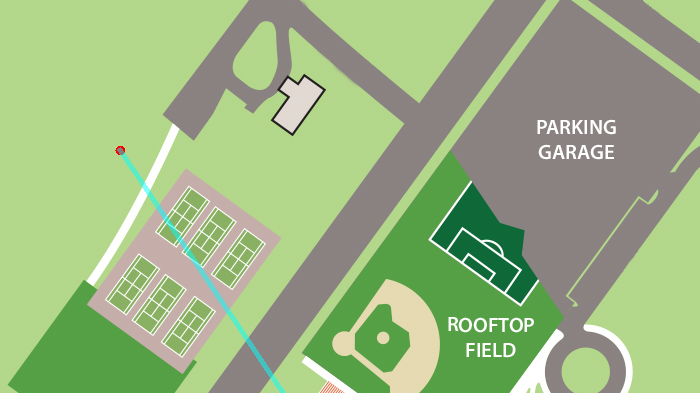
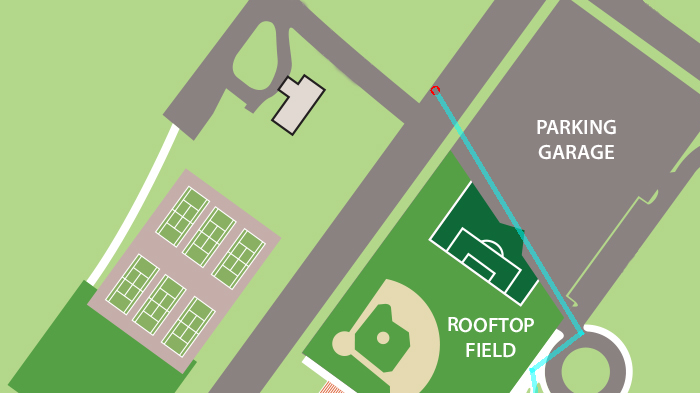
Made it capture an Image for each path.

diff --git a/src/main/gui/GUIFront.java b/src/main/gui/GUIFront.java
@@ -628,15 +628,17 @@ public class GUIFront extends JFrame {
 				double[] tempPan = panValues.get(backend.getLocalMap().getMapImageName());
 				panelMap.panX = tempPan[0];
 				panelMap.panY = tempPan[1];
+				
 
 				for(MapNode n : backend.getLocalMap().getMapNodes()){
 					n.setXPos(n.getXPos() - panelMap.panX);
 					n.setYPos(n.getYPos() - panelMap.panY);
 				}
-
-				panelMap.panX = 0.0;
-				panelMap.panY = 0.0;
-				panelMap.setScale(1.0);
+				
+				panelMap.panX = 0;
+				panelMap.panY = 0;
+				panelMap.setScale(1);
+				
 				thisRoute = paths.get(index);
 				drawLine = true;
 				// TODO: Fill in this method once we know how to draw/load maps
@@ -744,16 +746,18 @@ public class GUIFront extends JFrame {
 	 * 
 	 * @return a list of LocalMaps that are in the path of nodes give
 	 */
-	public ArrayList<LocalMap> createListOfMaps(ArrayList<MapNode> pathNodes) {
+	public ArrayList<LocalMap> createListOfMaps(ArrayList<ArrayList<MapNode>> path) {
 		// Initializes list
 		ArrayList<LocalMap> pathLocalMaps = new ArrayList<LocalMap>();
-		
-		// Iterates through the list of nodes in the inputed ArrayList
-		for (MapNode node: pathNodes) {
-			
-			// If the return list doesn't contain the current nodes LocalMap, it adds it to the return list
-			if (! pathLocalMaps.contains(node.getLocalMap())){
-				pathLocalMaps.add(node.getLocalMap());
+
+		for (ArrayList<MapNode> pathNodes: path) {
+			// Iterates through the list of nodes in the inputed ArrayList
+			for (MapNode node: pathNodes) {
+
+				// If the return list doesn't contain the current nodes LocalMap, it adds it to the return list
+				if (! pathLocalMaps.contains(node.getLocalMap())){
+					pathLocalMaps.add(node.getLocalMap());
+				}
 			}
 		}
 		return pathLocalMaps;
@@ -775,9 +779,7 @@ public class GUIFront extends JFrame {
 				PanelSave savePanel = new PanelSave();
 				
 				//TODO Find a variable that includes the list of nodes in a path
-				ArrayList<LocalMap> pathLocalMaps = createListOfMaps(thisRoute);
-				
-				System.out.println(thisRoute.size());
+				ArrayList<LocalMap> pathLocalMaps = createListOfMaps(paths);
 
 				// Goes through each of the maps in the path and captures and saves an image
 				for (LocalMap local: pathLocalMaps) {
@@ -788,6 +790,29 @@ public class GUIFront extends JFrame {
 					else {
 						index = 0;
 					}
+					
+					LocalMap localMap = paths.get(index).get(0).getLocalMap();
+					panelMap.setMapImage(new ProxyImage(localMap.getMapImageName()));
+					panelMap.setMapNodes(paths.get(index).get(0).getLocalMap().getMapNodes());
+					String previousMap = backend.getLocalMap().getMapImageName();
+					panValues.put(previousMap, new double[]{panelMap.panX, panelMap.panY});
+					backend.setLocalMap(localMap);
+
+					double[] tempPan = panValues.get(backend.getLocalMap().getMapImageName());
+					panelMap.panX = tempPan[0];
+					panelMap.panY = tempPan[1];
+
+					for(MapNode n : backend.getLocalMap().getMapNodes()){
+						n.setXPos(n.getXPos() - panelMap.panX);
+						n.setYPos(n.getYPos() - panelMap.panY);
+					}
+
+					panelMap.panX = 0;
+					panelMap.panY = 0;
+					panelMap.setScale(1.0);
+
+					thisRoute = paths.get(index);
+					drawLine = true;
 				}
 				System.out.println("Finished Saving Path Images");
 				
